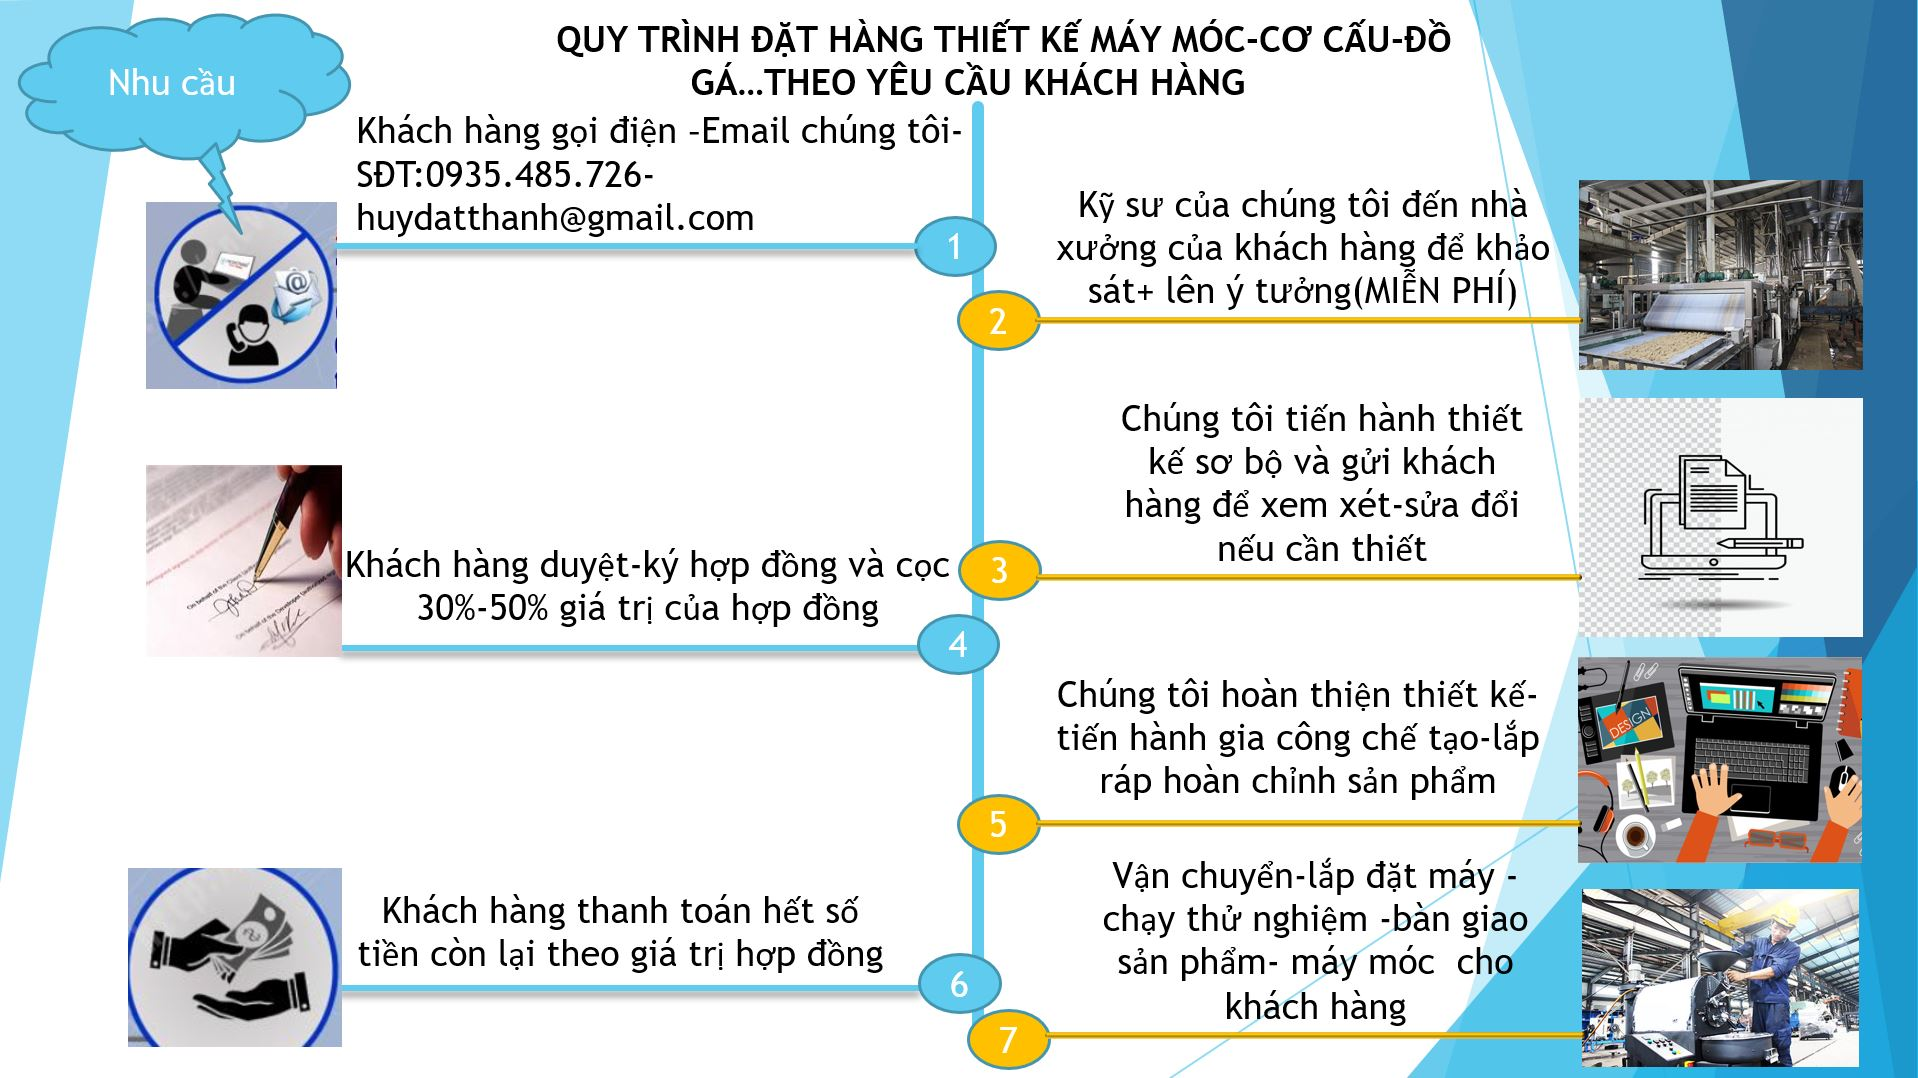
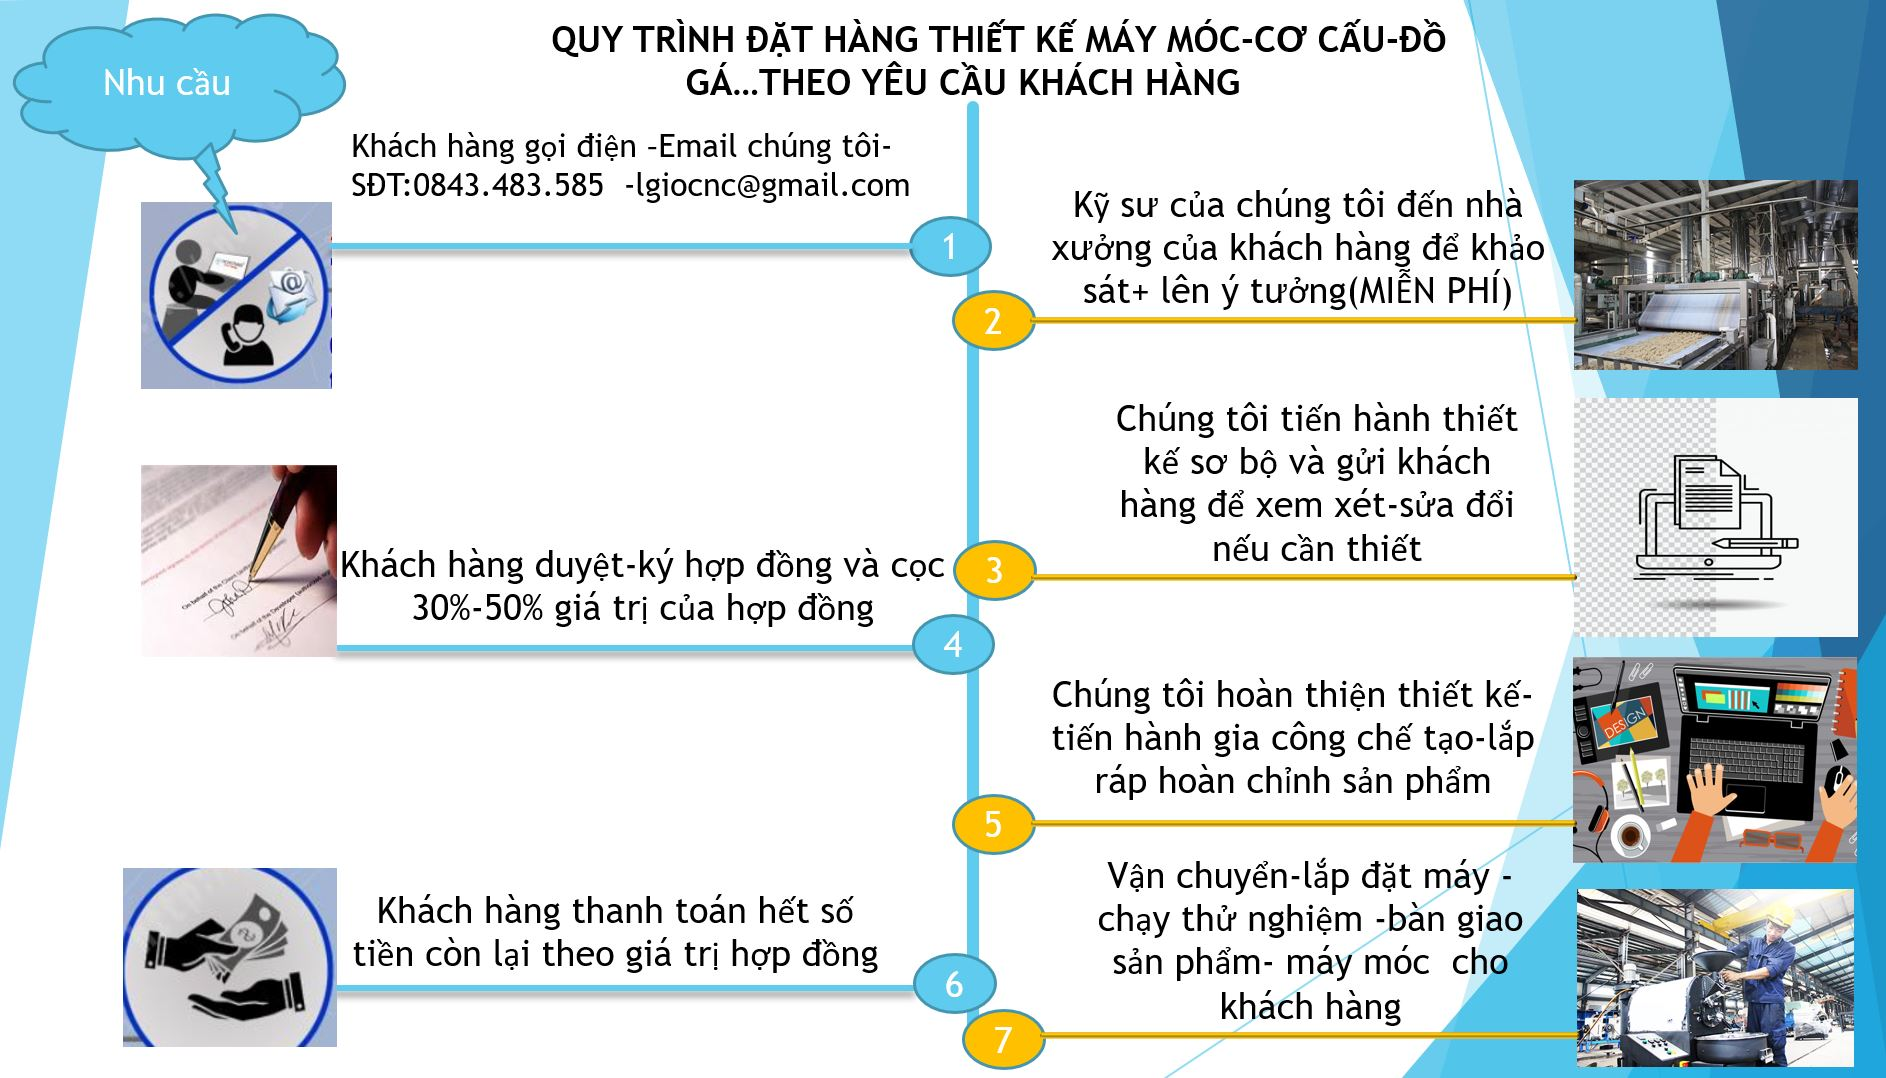
Add files via upload

diff --git a/index.html b/index.html
@@ -170,8 +170,8 @@ img {vertical-align: middle;}
 
 <div class="header">
   
-<img src="LOGO-LGIO-rmbgr.png" style="width:10%"  > <br>
-website: www.lgio.com ---Điện thoại: 0843.483.585--- Email:lgio.cnc@gmail.com
+<img src="LOGO-LGIO-rmbgr.png" style="width:15%"  > <br>
+website: www.lgiocnc.com ---Điện thoại: 0843.483.585--- Email:lgio.cnc@gmail.com
 
 </div>
 
@@ -186,12 +186,16 @@ website: www.lgio.com ---Điện thoại: 0843.483.585--- Email:lgio.cnc@gmail.c
        <li> <a href="cam.html"> LẬP TRÌNH CAM  </a></li>
        <li> <a href="cnc.html"> GIA CÔNG CNC </a></li>
        <li> <a href="reserve_eng.html"> THIẾT KẾ NGƯỢC </a></li>
-       <li> <a href="chuyengiaocongnghecnc.html"> ĐÀO TẠO-CHUYỂN GIAO CÔNG NGHỆ (KH DOANH NGHIỆP) </a></li>
+       <li> <a href="chuyengiaocongnghecnc.html"> ĐÀO TẠO-CHUYỂN GIAO CÔNG NGHỆ (KHÁCH HÀNG DOANH NGHIỆP) </a></li>
        <li> <a href="furniture.html"> THIẾT KẾ  NỘI THẤT  </a></li>
+       <li> <a href="furniture.html"> DỊCH VỤ SET UP VĂN PHÒNG -VPN  </a></li>
        <li> <a href="analysys.html"> THIẾT KẾ-PHÂN TÍCH KẾT CẤU   </a></li>
-      <li> <a href="training.html"> ĐÀO TẠO CAD-CAM-CNC (KH CÁ NHÂN & DOANH NGHIỆP) </a></li>
+      <li> <a href="training.html"> ĐÀO TẠO CAD-CAM-CNC (KHÁCH HÀNG CÁ NHÂN & DOANH NGHIỆP) </a></li>
       <li> <a href="recruiment.html"> TUYỂN DỤNG </a></li>
      <li> <a href="order_process.html"> QUY TRÌNH ĐẶT HÀNG  </a></li>
+     <li> <a href="order_process.html"> CÁC KHÓA HỌC CAD CAM CNC  </a></li>
+      <li> <a href="order_process.html"> CÁC KHÓA HỌC LẬP TRÌNH PLC  </a></li>
+       <li> <a href="order_process.html"> CỬA HÀNG ONLINE </a></li>
       </ul>
   </div>
   <div id ="vedungtoi" class="col-6">
@@ -213,7 +217,7 @@ Với mong muốn mang lại những sản phẩm và dịch vụ tốt nhất c
 
 <div class="mySlides fade">
   <div class="numbertext">2 / 3</div>
-  <img src="quy trinh dat hang1.jpg" style="width:100%">
+  <img src="quy trinh dat hang.jpg" style="width:100%">
   <div class="text"> ĐẶT HÀNG NHANH CHÓNG-ĐƠN GIẢN CHÍNH XÁC-QUY TRÌNH CHUẨN-RÕ RÀNG</div>
 </div>
 
@@ -250,7 +254,7 @@ function showSlides() {
   }
   slides[slideIndex-1].style.display = "block";  
   dots[slideIndex-1].className += " active";
-  setTimeout(showSlides, 2000); // Change image every 2 seconds
+  setTimeout(showSlides, 7000); // Change image every 2 seconds
 }
 </script>
 
@@ -267,9 +271,12 @@ function showSlides() {
       <p>A team of talented, dynamic and enthusiastic personnel</p>
       <p>Advance -Technologies- Model machines were invest... </p>
       <h2>Why you should cooperate with us?</h2>
-      <p>Be satisfied with your needs in dedicated service...</p>
-      <p>Feel the spirit of serious work - professional - always listen and understand</p>
-      <h2 style="font-family: Time new roman "  >The customers is biggest asset of ours....!</h2>
+      <p>Be satisfied your requirement in dedicated service...</p>
+      <p>Feel the spirit of serious work - professional - always listening and understanding</p>
+      <h2>Where we are?</h2>
+      <p>K25/1/29 NAM CAO Street -Lien Chieu Distric-Da Nang</p>
+      <h1 style="font-family: Time new roman "  >The customers is biggest asset of ours....!</h1>
+      <h1 style="font-family: Time new roman "  >Always changing, always improving....</h1>
 
 
     </div>
@@ -279,9 +286,9 @@ function showSlides() {
 <div class="footer">
   <p>Công ty TNHH LGIO ENGINEERING <br>
 
-Địa chỉ 1: Khu EPIC-TOWN- Điện Thắng Bắc-Điện Bàn(gần trạm thu phí Quảng Nam-Đà Nẵng) (Văn phòng chính) <br>
+Địa chỉ 1: K25/1/29 NAM CAO -LIÊN CHIỂU -ĐÀ NẴNG (Văn phòng chính) <br>
 
-Địa chỉ 2: 30-Hòa Mỹ 2-Phường Hòa Minh -Liên Chiểu -Đà Nẵng (Nhà xưởng) <br>
+Địa chỉ 2: 01 HỐ TRUÔNG 1-Phường Hòa Minh -Liên Chiểu -Đà Nẵng (Nhà xưởng) <br>
 
 Mã số thuế:00000000 <br>
 
